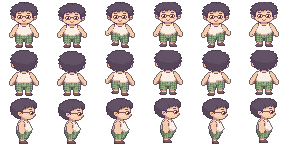
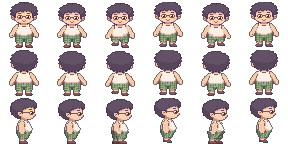
캐릭터 걷기 모션 고침 (내딛을 때 내려앉기 · 팔 흔들기 · 옆 다리 벌리기)
사용자: 걷는 모션이 어색함. 앞 · 뒤는 무릎 아래만 들고 반대 팔 1px, 옆은 다리 3px 까지 벌리고 뒷다리 어둡게.
--rewalk 로 다섯 캐릭터 걷기 칸만 다시 만들고 장비 덧그림도 다시 맞춤. 스모크 테스트 통과.

Claude-Session: https://claude.ai/code/session_01DB1kxEpWHaT4bjT9xMPqde

diff --git a/tools/import_ai_character.py b/tools/import_ai_character.py
@@ -22,6 +22,7 @@ import argparse
 import colorsys
 import json
 import os
+import sys
 from collections import Counter
 
 from PIL import Image
@@ -303,39 +304,153 @@ def shift(img, box, dx, dy):
     return out
 
 
-def frames(fig, side_view, hip):
-    """[대기0, 대기1, 걷기 contact_a, pass_a, contact_b, pass_b]"""
+def move_px(img, pts, dx, dy, fill=None):
+    """pts 자리 픽셀을 (dx, dy) 옮긴다. 빈 자리는 fill(x, y) 색.
+    fill 이 없으면 빈 자리 뒤쪽 (옮긴 반대 방향) 이웃이 몸이면 원래 색을 남기고 (팔이 1px 늘어남, 어깨에 틈 없음), 끝이면 투명."""
+    out = img.copy()
+    src, dst = img.load(), out.load()
+    w, h = img.size
+    inside = set(pts)
+    for x, y in pts:
+        if fill:
+            dst[x, y] = fill(x, y)
+            continue
+        bx, by = x - dx, y - dy
+        keep = 0 <= bx < w and 0 <= by < h and (bx, by) not in inside and src[bx, by][3]
+        dst[x, y] = src[x, y] if keep else (0, 0, 0, 0)
+    for x, y in pts:
+        if 0 <= x + dx < w and 0 <= y + dy < h:
+            dst[x + dx, y + dy] = src[x, y]
+    return out
+
+
+def arm_points(part, hip, side_view):
+    """부위 지도에서 팔(살 · 윗도리 소매) 아랫부분 픽셀. 앞 · 뒤는 바지 폭 바깥, 옆은 몸통 위 살색."""
+    w, h = part.size
+    pm = part.load()
+    is_ = lambda x, y, *names: pm[x, y][3] and pm[x, y][:3] in [PART_COLORS[n] for n in names]
+    if side_view:
+        # 옆모습 팔: 어깨 아래 ~ 엉덩이 사이 살색 (얼굴은 어깨 위라 빠진다)
+        return [(x, y) for y in range(round(h * 0.5), hip + 2) for x in range(w) if is_(x, y, "skin")]
+    pants = [x for x in range(w) if is_(x, hip + 1, "pants", "top")]
+    if not pants:
+        return []
+    lo, hi = min(pants), max(pants)
+    # 팔 아랫부분 (아래팔 · 손)만: 어깨까지 옮기면 어깨에 틈이 생긴다
+    return [(x, y) for y in range(round(h * 0.5), hip + 3) for x in range(w)
+            if (x < lo or x > hi) and is_(x, y, "skin", "top")]
+
+
+def frames(fig, side_view, hip, part):
+    """[대기0, 대기1, 걷기 contact_a, pass_a, contact_b, pass_b]
+
+    2026-10-01 사용자 "캐릭터 걷는 모션이 너무 어색": 예전엔 앞 · 뒤는 엉덩이 아래 반쪽을 통째로 2px 올리고,
+    옆은 다리를 1px 씩만 벌려 미끄러지듯 보였다. 이제
+      - 내딛는 칸(contact)에서 몸이 1px 내려앉고, 지나가는 칸(pass)에서 1px 올라간다 (반대였음)
+      - 앞 · 뒤: 무릎 아래만 들고 (반바지가 찢어지지 않게), 반대쪽 팔 아랫부분이 1px 흔들린다
+      - 옆: 다리를 엉덩이에서 발끝으로 갈수록 벌린다 (뒷다리는 어둡게), 팔이 앞뒤로 1px 흔들린다
+    부위 지도(part)로 팔을 찾고, 같은 옮김을 부위 지도에도 해야 장비 덧그림이 맞는다 → frames 는 (그림, 부위 지도) 둘 다 돌려준다.
+    """
     w, h = fig.size
     mid = w // 2
-    idle1 = shift(fig, (0, 0, w, hip - 2), 0, 1)  # 숨쉬기: 윗몸 1px 내려감
-    up = shift(fig, (0, 0, w, h), 0, -1)  # 걸음 사이 몸이 1px 들썩
+    knee = hip + (h - hip) // 2
+    both = lambda f: (f(fig), f(part))
+    idle1 = both(lambda im: shift(im, (0, 0, w, hip - 2), 0, 1))  # 숨쉬기: 윗몸 1px 내려감
+    arms = arm_points(part, hip, side_view)
+    left_arm = [(x, y) for x, y in arms if x < mid]
+    right_arm = [(x, y) for x, y in arms if x >= mid]
     if not side_view:
-        ca = shift(fig, (0, hip, mid, h), 0, -2)  # 왼발 들기
-        cb = shift(fig, (mid, hip, w, h), 0, -2)  # 오른발 들기
+        def step(lift_left):
+            def f(im):
+                # 무릎 아래 한쪽 발 들기 + 반대쪽 팔 앞으로 (1px 위) · 같은 쪽 팔 뒤로 (1px 아래) + 몸 1px 내려앉기
+                box = (0, knee, mid, h) if lift_left else (mid, knee, w, h)
+                out = shift(im, box, 0, -2)
+                fwd, back = (right_arm, left_arm) if lift_left else (left_arm, right_arm)
+                out = move_px(out, fwd, 0, -1)
+                out = move_px(out, [(x, y) for x, y in back], 0, 1)
+                return shift(out, (0, 0, w, knee), 0, 1)
+            return f
+        ca, cb = both(step(True)), both(step(False))
+        pa = both(lambda im: shift(im, (0, 0, w, h), 0, -1))
+        pb = pa
     else:
-        def stride(d):
-            # 엉덩이 아래 줄마다 뒤쪽 반은 -d, 앞쪽 반은 +d 로 벌리고 가운데 빈틈은 가운데 색으로 메운다
-            out = fig.copy()
-            src, dst = fig.load(), out.load()
-            for y in range(hip, h):
-                row = [src[x, y] for x in range(w)]
-                for x in range(w):
-                    sx_ = x + d if x < mid - d else (x - d if x >= mid + d else mid - (1 if x < mid else 0))
-                    dst[x, y] = row[sx_] if 0 <= sx_ < w else (0, 0, 0, 0)
-            return out
-        ca, cb = stride(1), stride(-1)
-    return [fig, idle1, ca, up, cb, up]
+        def stride(d, dark_back):
+            def f(im):
+                # 엉덩이 아래를 앞다리(+) · 뒷다리(-) 둘로: 아래로 갈수록 벌어진다. 뒷다리는 조금 어둡게.
+                src = im.load()
+                legs_front = Image.new("RGBA", (w, h), (0, 0, 0, 0))
+                legs_back = Image.new("RGBA", (w, h), (0, 0, 0, 0))
+                lf, lb = legs_front.load(), legs_back.load()
+                for y in range(hip, h):
+                    off = round(d * (y - hip + 1) / (h - hip))
+                    for x in range(w):
+                        c = src[x, y]
+                        if not c[3]:
+                            continue
+                        if 0 <= x + off < w:
+                            lf[x + off, y] = c
+                        if 0 <= x - off < w:
+                            k = 0.82 if dark_back and im is fig else 1.0
+                            lb[x - off, y] = (int(c[0] * k), int(c[1] * k), int(c[2] * k), c[3])
+                out = im.copy()
+                out.paste((0, 0, 0, 0), (0, hip, w, h))
+                out.alpha_composite(legs_back)
+                out.alpha_composite(legs_front)
+                # 팔은 뒷다리 쪽으로 (다리와 반대로) 1px, 비운 자리는 바로 옆 몸통 색
+                o = out.load()
+                out = move_px(out, arms, -1 if d > 0 else 1, 0,
+                              lambda x, y: o[x + (1 if d > 0 else -1), y] if 0 <= x + (1 if d > 0 else -1) < w and (x + (1 if d > 0 else -1), y) not in arms else o[x, y])
+                return shift(out, (0, 0, w, hip), 0, 1)
+            return f
+        ca, cb = both(stride(3, True)), both(stride(-3, True))
+        def passing(im):
+            # 지나가는 칸: 다리 모으고 몸 1px 들썩, 뒷발 1px 들기
+            out = shift(im, (0, 0, w, h), 0, -1)
+            return shift(out, (0, h - 3, mid, h), 0, -1)
+        pa = both(passing)
+        pb = pa
+    return [(fig, part), idle1, ca, pa, cb, pb]
 
 
-def build_sheet(views, hip):
+def build_sheet(views, parts, hip):
     sheet = Image.new("RGBA", (CELL * COLS, CELL * ROWS), (0, 0, 0, 0))
-    for r, (fig, sv) in enumerate([(views["down"], False), (views["up"], False), (views["side"], True)]):
-        for c, fr in enumerate(frames(fig, sv, hip)):
-            sheet.alpha_composite(fr, (c * CELL + (CELL - fr.width) // 2, r * CELL + CELL - fr.height))
-    return sheet
+    parts_sheet = Image.new("RGBA", sheet.size, (0, 0, 0, 0))
+    for r, (key, sv) in enumerate([("down", False), ("up", False), ("side", True)]):
+        for c, (fr, pt) in enumerate(frames(views[key], sv, hip, parts[key])):
+            pos = (c * CELL + (CELL - fr.width) // 2, r * CELL + CELL - fr.height)
+            sheet.alpha_composite(fr, pos)
+            parts_sheet.alpha_composite(pt, pos)
+    return sheet, parts_sheet
+
+
+def rewalk(name):
+    """이미 만든 시트의 대기 0칸(손대지 않은 몸)에서 숨쉬기 · 걷기 칸만 다시 만든다. 원본 그림 · 옵션 없이도 된다.
+    (2026-10-01 걷기 모션 고칠 때 다섯 캐릭터에 썼다. 그 뒤엔 make_wear_sheets.py 를 다시 돌린다.)"""
+    sheet_path = os.path.join(ROOT, "assets", "characters", f"{name}.png")
+    parts_path = os.path.join(PARTS_DIR, f"{name}.png")
+    sheet, parts = Image.open(sheet_path).convert("RGBA"), Image.open(parts_path).convert("RGBA")
+    new_sheet = Image.new("RGBA", sheet.size, (0, 0, 0, 0))
+    new_parts = Image.new("RGBA", sheet.size, (0, 0, 0, 0))
+    for r, sv in enumerate((False, False, True)):
+        cell = (0, r * CELL, CELL, r * CELL + CELL)
+        fig, part = sheet.crop(cell), parts.crop(cell)
+        box = fig.getbbox()
+        fig, part = fig.crop(box), part.crop(box)
+        hip = round(fig.height * 0.68)
+        for c, (fr, pt) in enumerate(frames(fig, sv, hip, part)):
+            pos = (c * CELL + box[0], r * CELL + box[1])
+            new_sheet.alpha_composite(fr, pos)
+            new_parts.alpha_composite(pt, pos)
+    new_sheet.save(sheet_path)
+    new_parts.save(parts_path)
+    print("rewalk", name)
 
 
 def main():
+    if len(sys.argv) > 2 and sys.argv[1] == "--rewalk":
+        for name in sys.argv[2:]:
+            rewalk(name)
+        return
     ap = argparse.ArgumentParser()
     ap.add_argument("src")
     ap.add_argument("--name", default="player")
@@ -397,8 +512,7 @@ def main():
         with open(a.patch, encoding="utf-8") as fp:
             apply_patch(views, json.load(fp))
     hip = round(a.height * 0.68)
-    sheet = build_sheet(views, hip)
-    parts_sheet = build_sheet(parts, hip)
+    sheet, parts_sheet = build_sheet(views, parts, hip)
     out = a.out or os.path.join(ROOT, "assets", "characters", f"{a.name}.png")
     sheet.save(out)
     os.makedirs(PARTS_DIR, exist_ok=True)
